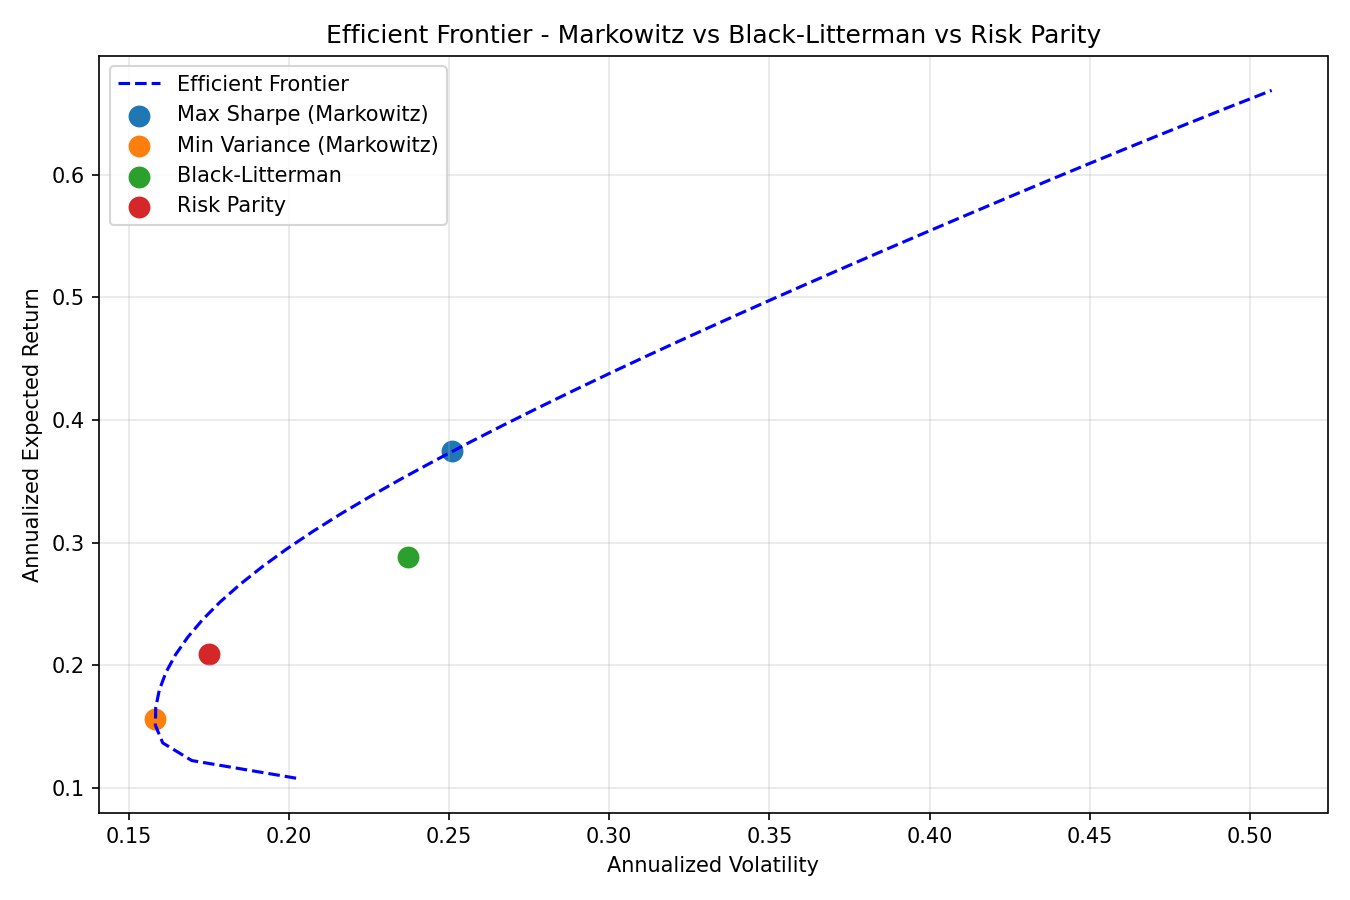
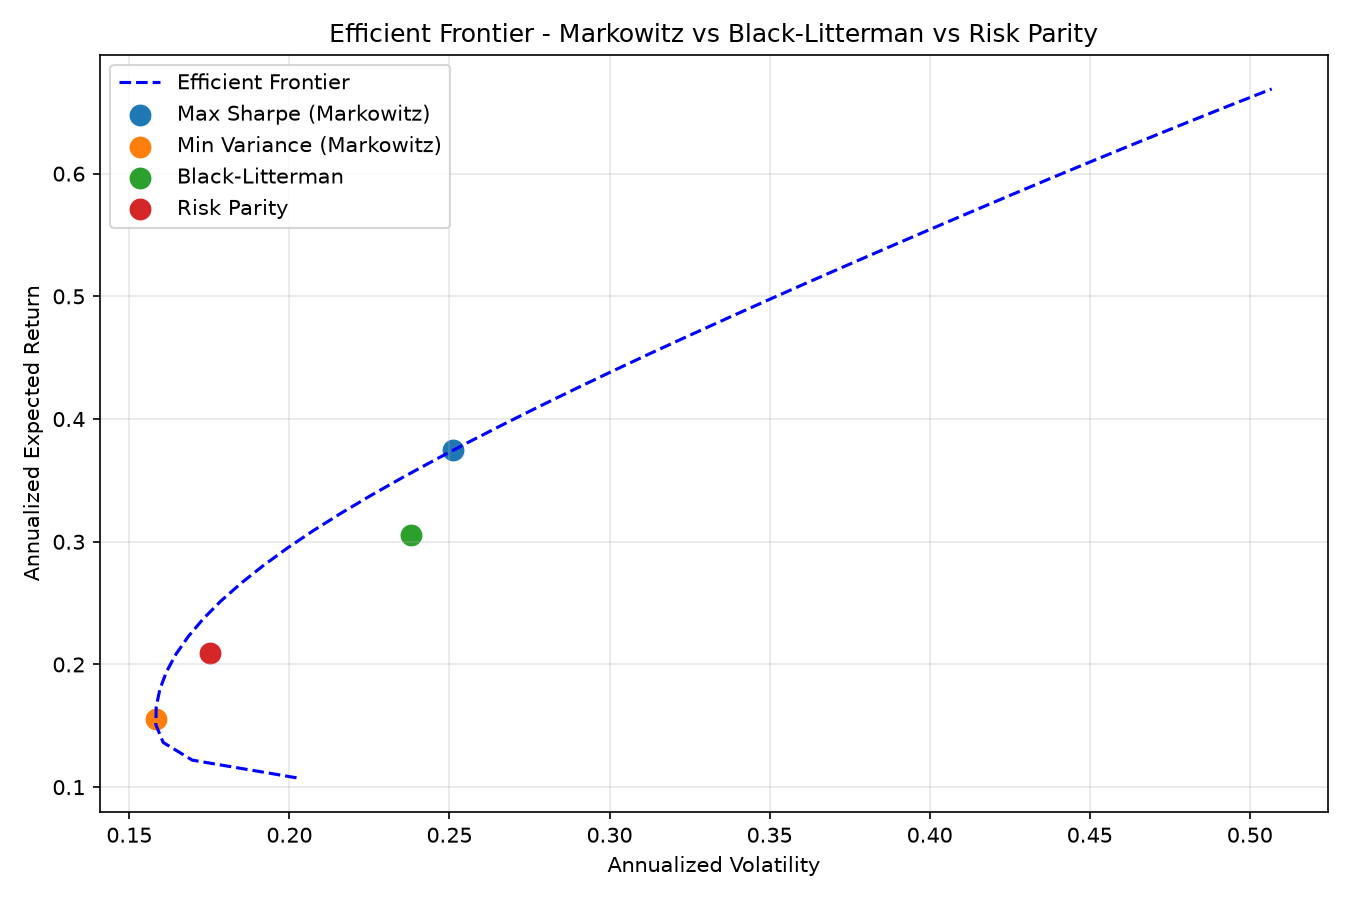
Fix ticker order after download

diff --git a/portfolio_optimizer.py b/portfolio_optimizer.py
@@ -31,7 +31,7 @@ OUTPUT_DIR = "output"
 def load_prices():
     """Download adjusted close prices for the universe."""
     raw = yf.download(TICKERS, start=START_DATE, end=END_DATE, progress=False)["Close"]
-    raw = raw.dropna()
+    raw = raw[TICKERS].dropna()
     return raw
 
 

diff --git a/README.md b/README.md
@@ -33,7 +33,7 @@ python portfolio_optimizer.py
 | Portfolio | Expected return | Volatility | Sharpe |
 |---|---:|---:|---:|
 | Max Sharpe (Markowitz) | 37.4% | 25.1% | **1.37** |
-| Black-Litterman | 28.8% | 23.7% | 1.09 |
+| Black-Litterman | 30.6% | 23.8% | 1.16 |
 | Risk parity | 20.9% | 17.5% | 1.02 |
 | Min variance (Markowitz) | 15.6% | 15.8% | 0.79 |
 
@@ -41,21 +41,21 @@ python portfolio_optimizer.py
 
 | | Max Sharpe | Min variance | Black-Litterman | Risk parity |
 |---|---:|---:|---:|---:|
-| AAPL | 10.4% | 0.0% | 10.4% | 8.0% |
-| MSFT | 31.2% | 33.8% | 0.0% | 14.7% |
-| JPM | 2.5% | 0.3% | 8.5% | 8.5% |
-| XOM | 6.4% | 20.5% | 0.0% | 12.9% |
-| JNJ | 0.0% | 10.3% | 8.5% | 8.6% |
-| PG | 39.2% | 1.3% | 18.7% | 6.1% |
-| V | 0.0% | 21.9% | 0.0% | 13.5% |
-| NVDA | 0.0% | 2.2% | 28.9% | 9.1% |
-| KO | 0.0% | 0.0% | 16.3% | 8.7% |
-| UNH | 10.3% | 9.7% | 8.8% | 10.0% |
+| AAPL | 10.4% | 0.0% | 19.6% | 8.0% |
+| MSFT | 0.0% | 10.3% | 9.3% | 8.6% |
+| JPM | 2.5% | 0.3% | 9.8% | 8.5% |
+| XOM | 10.3% | 9.7% | 9.6% | 10.0% |
+| JNJ | 31.2% | 33.8% | 0.0% | 14.7% |
+| PG | 0.0% | 21.9% | 0.0% | 13.4% |
+| V | 0.0% | 0.0% | 18.0% | 8.7% |
+| NVDA | 39.2% | 1.3% | 18.2% | 6.1% |
+| KO | 6.4% | 20.5% | 0.0% | 12.9% |
+| UNH | 0.0% | 2.2% | 15.6% | 9.1% |
 
-Markowitz puts the portfolio in 6 stocks (PG + MSFT = 70%), which shows how
+Markowitz puts the portfolio in 6 stocks (NVDA + JNJ = 70%), which shows how
 sensitive it is to the estimated returns. Risk parity stays diversified
 (every stock between 6% and 15%) with a lower Sharpe. Black-Litterman follows
-the positive NVDA view (28.9%).
+the positive NVDA view (18.2%).
 
 ## Limitations
 
